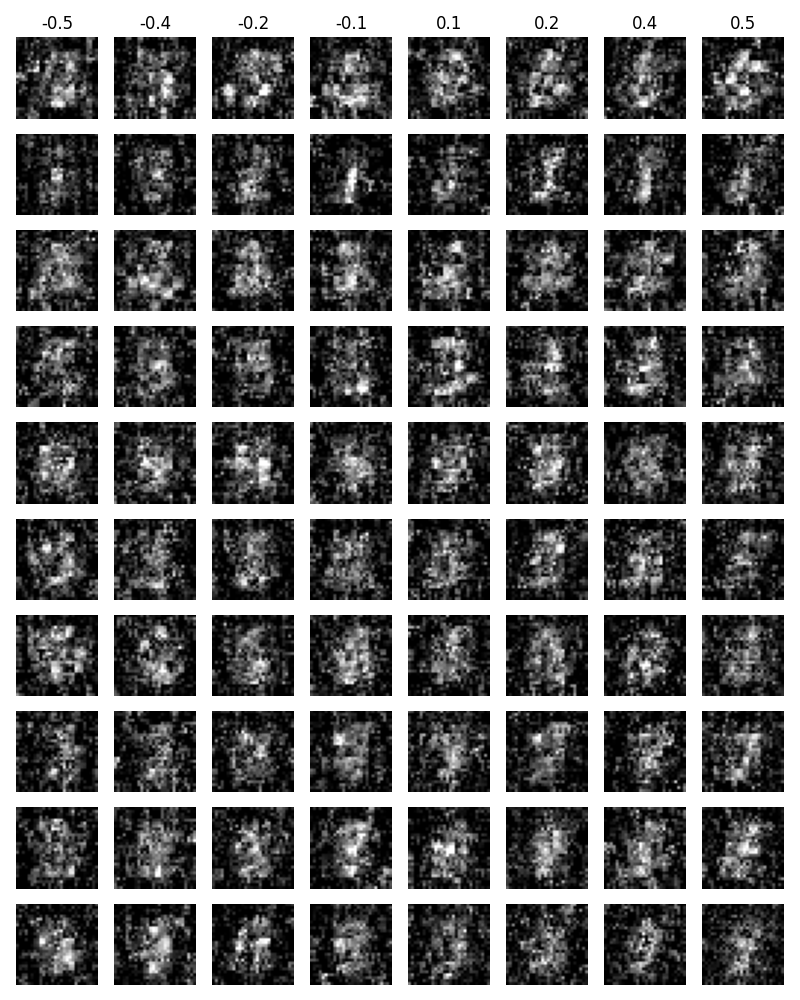
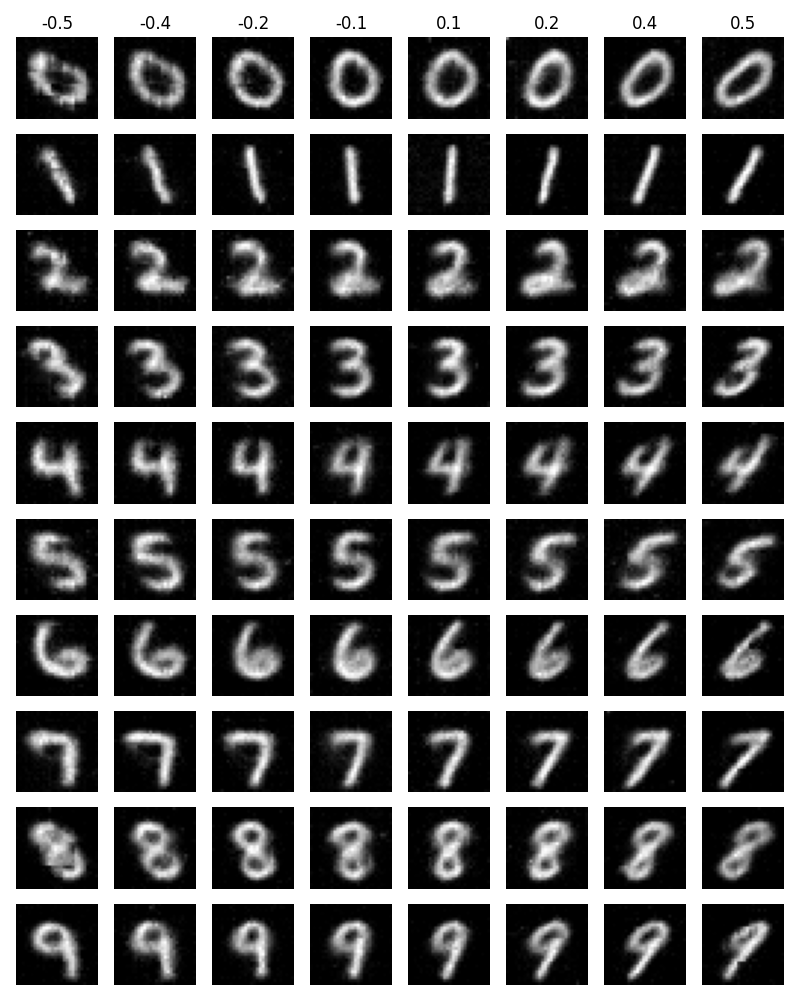
Add inference result for MeanFlow.

diff --git a/README.md b/README.md
@@ -6,7 +6,13 @@ This repository contains implementations of conditional generative models traine
 
 The models incorporate two forms of conditioning: discrete digit identity and a continuous slant descriptor extracted from the morphological annotations.
 
-![Inference Result](inference_both.png)
+### Inference Results
+
+**Conditional Flow Matching (CFM)**
+![CFM Inference Result](inference_both_cfm.png)
+
+**MeanFlow**
+![MeanFlow Inference Result](inference_both_mean_flow.png)
 
 ## 1. Repository Layout
 
